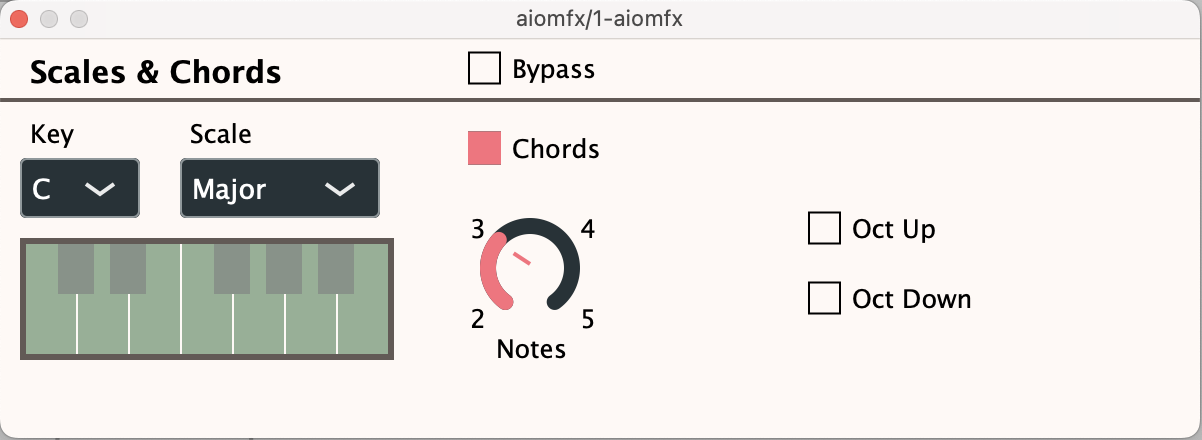
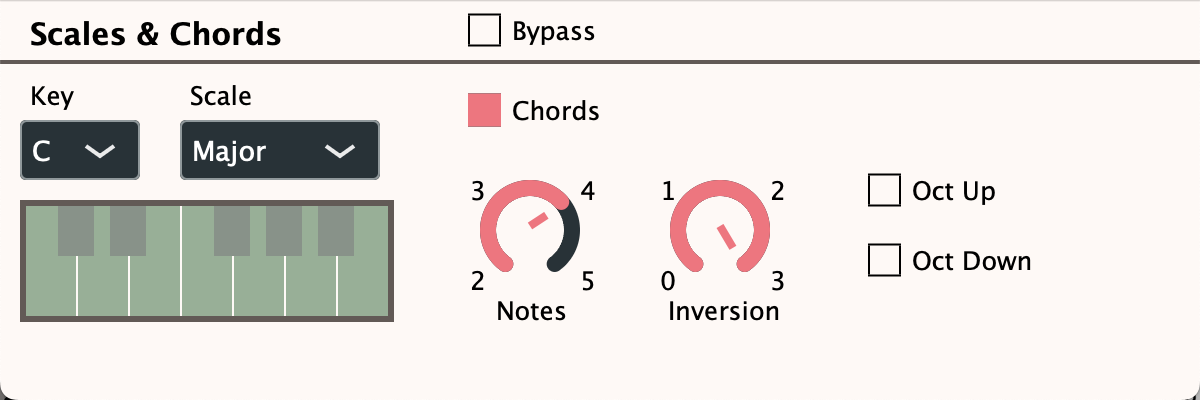
updated README

diff --git a/README.md b/README.md
@@ -1,21 +1,33 @@
 # aiomfx
 
-Aiomfx is a MIDI processing plugin. Currently there are no released versions, the plugin is still work in progress.
+Aiomfx is a MIDI processing plugin.
+Currently it has only one FX "Scales and Chords" however the grand plan is to add more FX:
+ * velocity randomisation
+ * note randomisation
+ * arpegiator
+ * step sequencer
+ * etc
 
 ![screenshot](aiomfx.png)
-
-UI is work in progress as well. 
-
 
 
 ## Processors
 
 ### Scales and Chords
-This processor adjust played notes to the selected Scale and generates chords rooted from the keys of the scale. More documentation is coming soon ...
+Scales and Chords either transposes played notes to fit a selected scale or transposes notes and generates chords from a single note that fit the selected scale. 
 
+By default both functions are enabled.
 
+#### Scales
+![screenshot](scale_chords_scale.png)
+This processor will fit played not into the selected scale. To pick a scale use `Key` and `Scale` dropdowns.
+
+#### Chords
+![screenshot](scale_chords_chords.png)
+To enable/disable chord generation click the button left to `Chords` label. What chord is generated can be controlled using `Notes` and `Inversions` sliders to set the number of notes in the chord and chord's inversion respectively. These controls can add nice voicing to the chord. Additionally it's possible to add a note an octave up or down (or both) by clicking the `oct up` and `oct down` button respectively.
 
 ## System requirements
-Any major DAW that can use VST3 or AU plugins (Ableton Live, Cubase, Logic Pro, etc). AAX version is planned for later. Aiomfx is being tested in Ableton Live, REAPER and Logic Pro.
+Any major DAW that can use VST3 or AU plugins (Ableton Live, Cubase, Logic Pro, etc). 
 
+Aiomfx currently is being tested in Ableton Live, REAPER.
 
